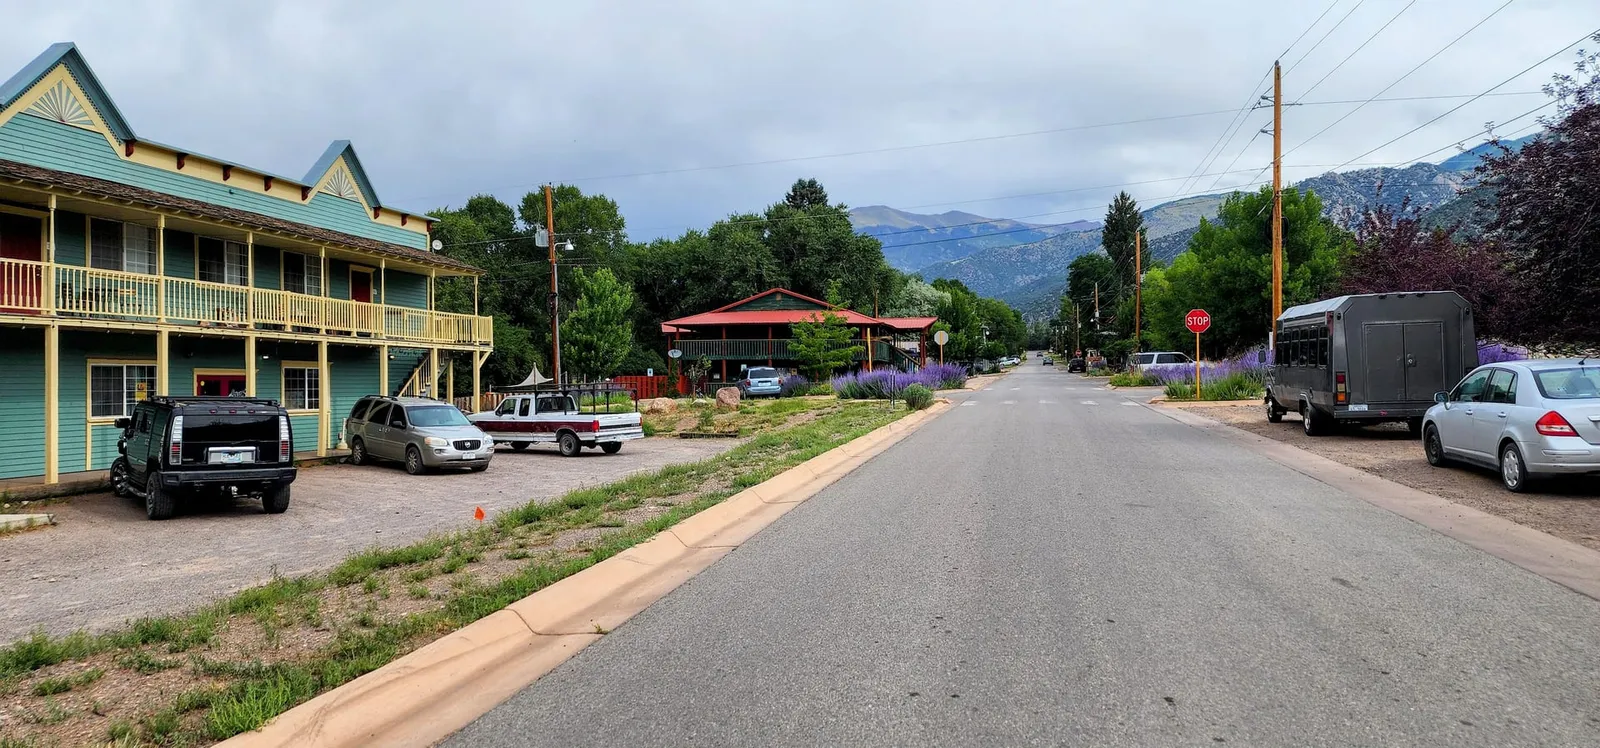
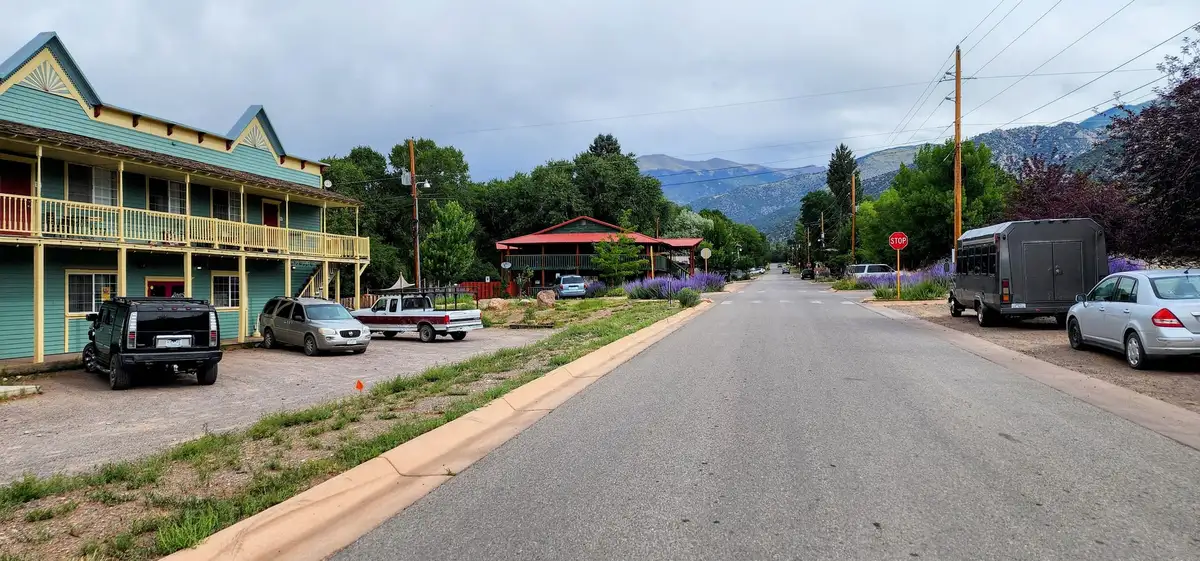
perf: remove DM Sans woff2 preload, recompress About hero bg
- Remove DM Sans (36 KB) preload from index.html: it competed with critical
  JS on throttled connections, delaying React mount and pushing blocking
  tasks past FCP — causing TBT to spike from ~430ms to ~780ms.
  Body font still loads via @font-face/swap, just a bit later.
  Only Oswald-700 (12 KB) is preloaded — heading font for text LCP pages.

- About hero background: 251 KB → 102 KB (-59%)
  Recompressed at 1200px/q60 — background has brightness(0.3) filter so
  quality below 65 is visually indistinguishable. Reduces bandwidth
  competition with LCP image and Stripe.js CDN load.

diff --git a/index.html b/index.html
@@ -32,10 +32,10 @@
     <meta name="geo.position"  content="37.9947;-105.5183" />
     <meta name="ICBM"          content="37.9947, -105.5183" />
 
-    <!-- Critical font preloads — served from same origin, no external CDN round-trip.
-         Oswald 700 is the primary heading weight; DM Sans variable covers all body text. -->
+    <!-- Preload the primary heading font only (12 KB, same origin).
+         DM Sans body font is NOT preloaded — at 36 KB it competes with critical JS
+         on throttled connections and delays first render more than the FOUT costs. -->
     <link rel="preload" href="/assets/fonts/oswald-700.woff2" as="font" type="font/woff2" crossorigin />
-    <link rel="preload" href="/assets/fonts/dm-sans-variable.woff2" as="font" type="font/woff2" crossorigin />
 
     <!-- Preload home-page hero logo WebP (LCP element on /) -->
     <link rel="preload" href="/assets/images/content/Logo/me-logo.webp" as="image" type="image/webp" />
